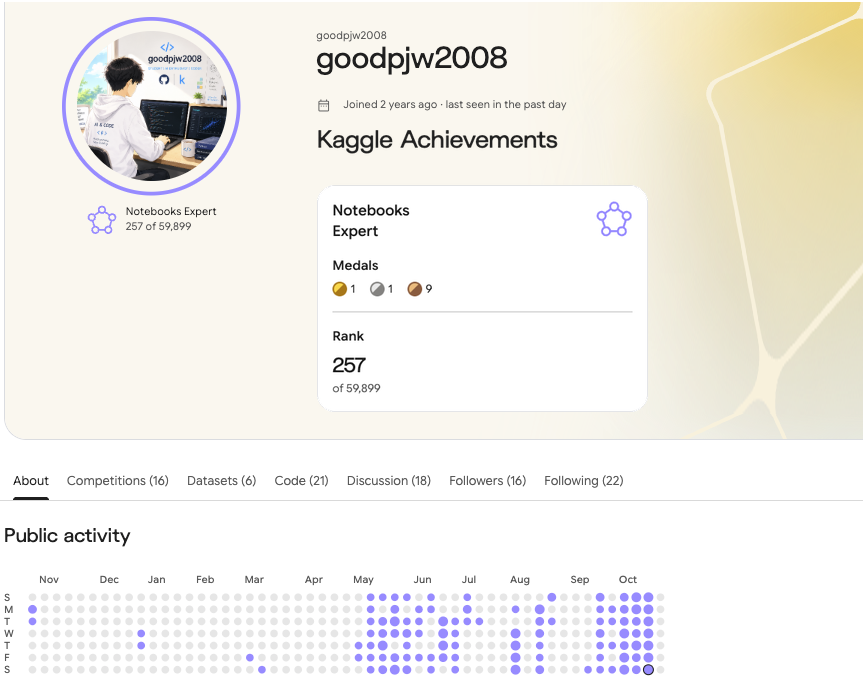
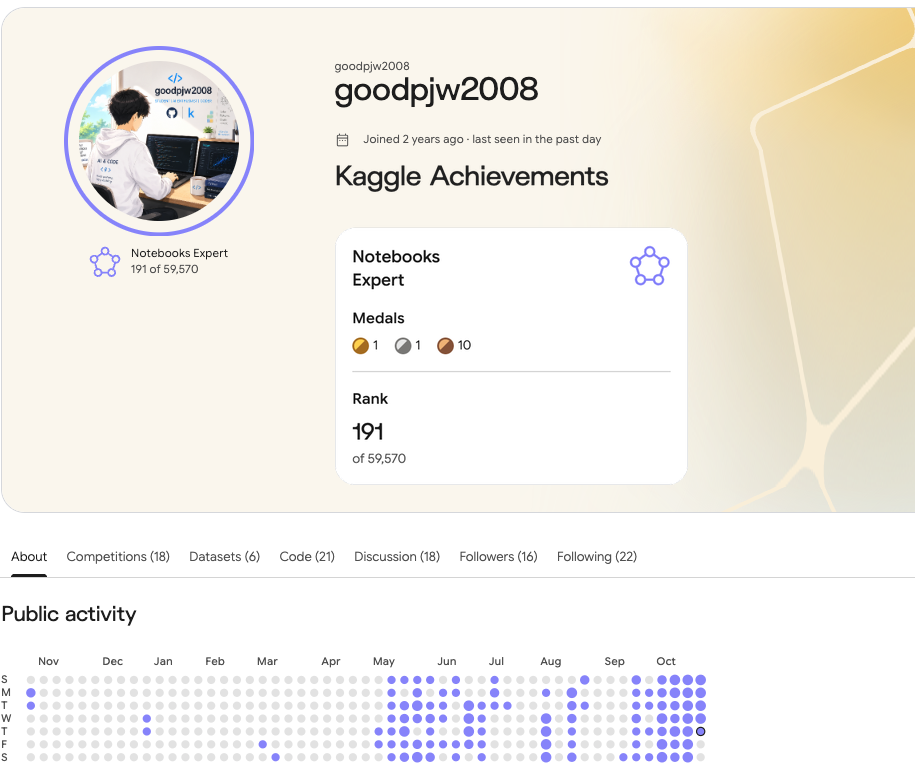
캐글 프로필을 191/59,570(금1·은1·동10) 최신 화면으로 갱신, 기준일 2026.10.22

diff --git a/README.md b/README.md
@@ -45,8 +45,8 @@
 - **프로젝트보고서** — [AI_봇_2종_구현_및_국제_플랫폼_최상위권_성적_달성.pdf](./projects/AI_봇_2종_구현_및_국제_플랫폼_최상위권_성적_달성.pdf)
 - **저장소** — [https://github.com/goodpjw2008/Project_AI-Bots-CodinGame](https://github.com/goodpjw2008/Project_AI-Bots-CodinGame)
 
-### ⑤ Kaggle(캐글) 대회 참여 프로젝트 성적 (2026.10.18(일) 기준)
-- [Kaggle 프로필 (goodpjw2008)](https://www.kaggle.com/goodpjw2008) — Notebooks Expert, 257/59,899 (상위 0.4%), 금메달 1개 · 은메달 1개 · 동메달 9개
+### ⑤ Kaggle(캐글) 대회 참여 프로젝트 성적 (2026.10.22(목) 기준)
+- [Kaggle 프로필 (goodpjw2008)](https://www.kaggle.com/goodpjw2008) — Notebooks Expert, 191/59,570 (상위 0.3%), 금메달 1개 · 은메달 1개 · 동메달 10개
 
   <img src="./projects/Kaggle_Profile.png" alt="Kaggle 프로필 goodpjw2008" width="720"/>
 

diff --git a/README.en.md b/README.en.md
@@ -45,8 +45,8 @@
 - **Project report (Korean)** — [AI_봇_2종_구현_및_국제_플랫폼_최상위권_성적_달성.pdf](./projects/AI_봇_2종_구현_및_국제_플랫폼_최상위권_성적_달성.pdf)
 - **Repository** — [https://github.com/goodpjw2008/Project_AI-Bots-CodinGame](https://github.com/goodpjw2008/Project_AI-Bots-CodinGame)
 
-### ⑤ Kaggle Competition Results (as of Oct 18, 2026)
-- [Kaggle profile (goodpjw2008)](https://www.kaggle.com/goodpjw2008) — Notebooks Expert, 257/59,899 (top 0.4%), 1 gold · 1 silver · 9 bronze medals
+### ⑤ Kaggle Competition Results (as of Oct 22, 2026)
+- [Kaggle profile (goodpjw2008)](https://www.kaggle.com/goodpjw2008) — Notebooks Expert, 191/59,570 (top 0.3%), 1 gold · 1 silver · 10 bronze medals
 
   <img src="./projects/Kaggle_Profile.png" alt="Kaggle profile goodpjw2008" width="720"/>
 
